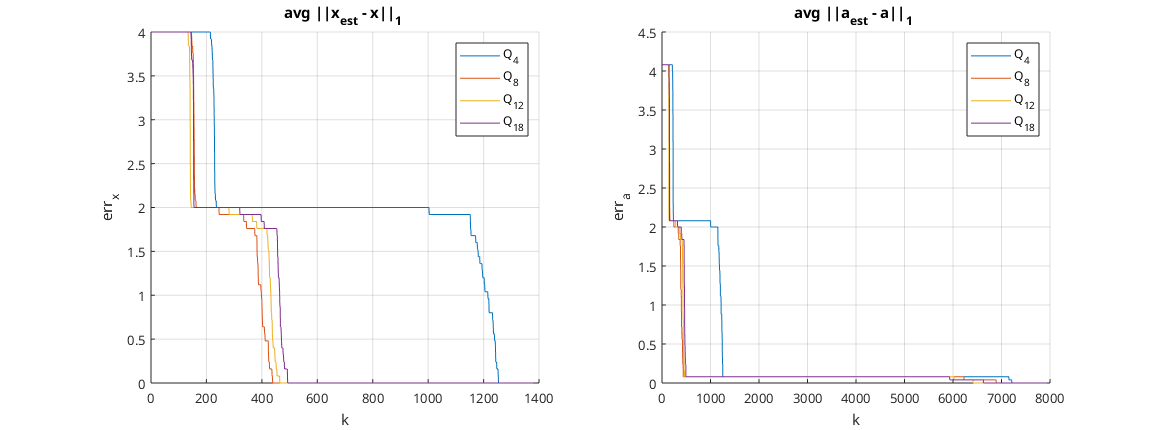
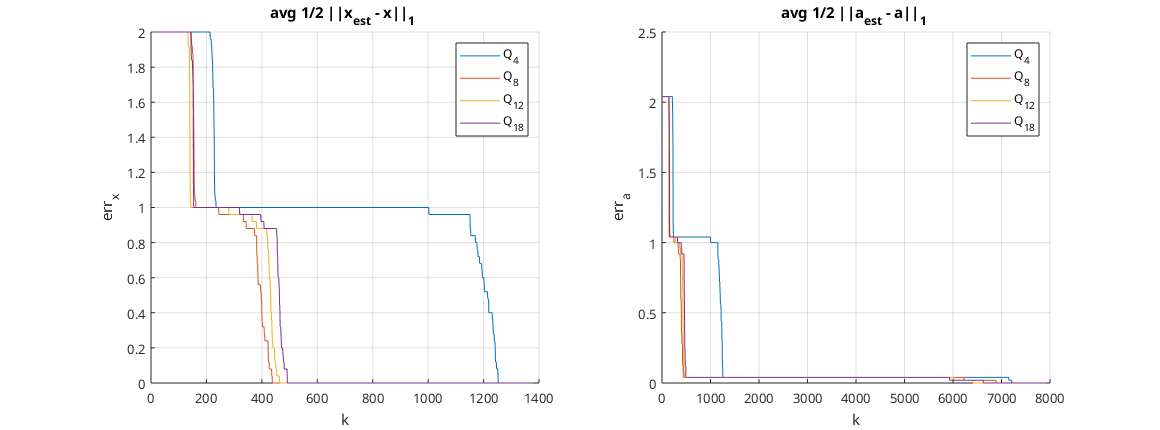
e05: minor changes, bug fix

diff --git a/e05/e05_main.m b/e05/e05_main.m
@@ -91,10 +91,10 @@ num_iter = zeros(length(Q_vec),1);
 k_stop = zeros(length(Q_vec),1);
 x_norm_error = zeros(length(Q_vec), 20000);
 a_norm_error = zeros(length(Q_vec), 20000);
-x_k_conv = zeros(length(Q_vec), 1);
-a_k_conv = zeros(length(Q_vec), 1);
-x_k_cons = zeros(length(Q_vec), 1);
-a_k_cons = zeros(length(Q_vec), 1);
+k_x_conv = zeros(length(Q_vec), 1);
+k_a_conv = zeros(length(Q_vec), 1);
+k_x_cons = zeros(length(Q_vec), 1);
+k_a_cons = zeros(length(Q_vec), 1);
 
 % for each setup
 for Q_index = 1:length(Q_vec)
@@ -151,55 +151,82 @@ for Q_index = 1:length(Q_vec)
             exit_cond = true;
         end
 
+        % variables update
+        z = z_next;
+        
         % check if convergence achieved
         %   by getting estimated vectors for each sensor
-        n_corr_x = 0;
-        n_corr_a = 0;
+        x_hat = z(1:p,:);
+        a_hat = z(p+1:p+q,:);
+
         for i = 1:q
-            x_est = z(1:p, i);
-            a_est = z(p+1:p+q, i);
         
             % exploit knowledge about # of targets
-            x_sort = sort(x_est, 'descend');
+            x_sort = sort(x_hat(:,i), 'descend');
             smallest_accepted_value = x_sort(trg);
-            x_hat = x_est >= smallest_accepted_value;
-            supp_x = find(x_hat);
+            x_hat(:,i) = x_hat(:,i) >= smallest_accepted_value;
+            supp_x = find(x_hat(:,i));
             
             % sensors under attack
-            a_hat = a_est >= 0.002;
-            supp_a = find(a_hat);
+            a_hat(:,i) = a_hat(:,i) >= 0.002;
+            supp_a = find(a_hat(:,i));
 
             % update vectors of errors
-            x_norm_error(Q_index, k) = x_norm_error(Q_index, k) + norm(x_hat - x_corr, 1);
-            a_norm_error(Q_index, k) = x_norm_error(Q_index, k) + norm(a_hat - a_corr, 1);
+            x_norm_error(Q_index, k) = x_norm_error(Q_index, k) + norm(x_hat(:,i) - x_corr, 1);
+            a_norm_error(Q_index, k) = x_norm_error(Q_index, k) + norm(a_hat(:,i) - a_corr, 1);
         end
         
         % perform average of error of each 
         x_norm_error(Q_index, k) = x_norm_error(Q_index, k) / q;
         a_norm_error(Q_index, k) = a_norm_error(Q_index, k) / q;
 
+        % check if consesus reached
+        cons_x = true;
+        for i = 2:q
+            if ~isequal(x_hat(:,1), x_hat(:,i))
+                cons_x = false;
+            end
+        end
+        if k > 1 && k_x_cons(Q_index) == 0 && cons_x
+            k_x_cons(Q_index) = k;
+        end
+
+        cons_a = true;
+        if isequal(a_hat(:,1), zeros(q,1))
+            cons_a = false;
+        end
+        for i = 2:q
+            if ~isequal(a_hat(:,1), a_hat(:,i))
+                cons_a = false;
+            end
+        end
+        if k > 1 && k_a_cons(Q_index) == 0 && cons_a
+            k_a_cons(Q_index) = k;
+        end
+
         % print
         if rem(k,100) == 0
             fprintf('\b\b\b\b\b\b\b\b%8i', k);
         end
-    
-        % variables update
-        z = z_next;
+
+        % update k
         k = k + 1;
+    
     end
 
     % save k
     k_stop(Q_index) = k;
 
     % find convergence times
-    x_k_conv(Q_index) = find(x_norm_error(Q_index,:) == 0, 1, "first");
-    a_k_conv(Q_index) = find(a_norm_error(Q_index,:) == 0, 1, "first");
+    k_x_conv(Q_index) = find(x_norm_error(Q_index,:) == 0, 1, "first");
+    k_a_conv(Q_index) = find(a_norm_error(Q_index,:) == 0, 1, "first");
 
     % print output
     fprintf("\nTeermination condition reached in k=%i time steps, with %i total iterations, delta=%.8f\n", ...
         k, num_iter(Q_index), sum)
-    
+    fprintf("Consensus reached in: for x: %i iterations, for a: %i iterations\n", ...
+        k_x_cons(Q_index), k_a_cons(Q_index))
     fprintf("Convergence to exact solution achieved in: for x: %i iterations, for a: %i iterations\n\n", ...
-        x_k_conv(Q_index), a_k_conv(Q_index))
+        k_x_conv(Q_index), k_a_conv(Q_index))
 end
 

diff --git a/e05/e05_display_results.m b/e05/e05_display_results.m
@@ -10,24 +10,24 @@ f.Position([3 4]) = [1150, 400];
 
 subplot(1,2,1)
 grid on, hold on
-title('avg{ ||x_{est} - x||_1 }'), xlabel('k'), ylabel('err_x')
+title('avg{ 1/2 ||x_{est} - x||_1 }'), xlabel('k'), ylabel('err_x')
 
 subplot(1,2,2)
 grid on, hold on
-title('avg{ ||a_{est} - a||_1 }'), xlabel('k'), ylabel('err_a')
+title('avg{ 1/2 ||a_{est} - a||_1 }'), xlabel('k'), ylabel('err_a')
 
 k_init = 2;
-max_k_x = round(max(x_k_conv) * 1.1);
-max_k_a = round(max(a_k_conv) * 1.1);
+max_k_x = round(max(k_x_conv) * 1.1);
+max_k_a = round(max(k_a_conv) * 1.1);
 
 % plot evolution of error in norm
 for j = 1:length(Q_vec)
     
     subplot(1,2,1)
-    plot(k_init:max_k_x, x_norm_error(j,k_init:max_k_x))
+    plot(k_init:max_k_x, 1/2*x_norm_error(j,k_init:max_k_x))
     
     subplot(1,2,2)
-    plot(k_init:max_k_a, a_norm_error(j,k_init:max_k_a))
+    plot(k_init:max_k_a, 1/2*a_norm_error(j,k_init:max_k_a))
 
 end
 
